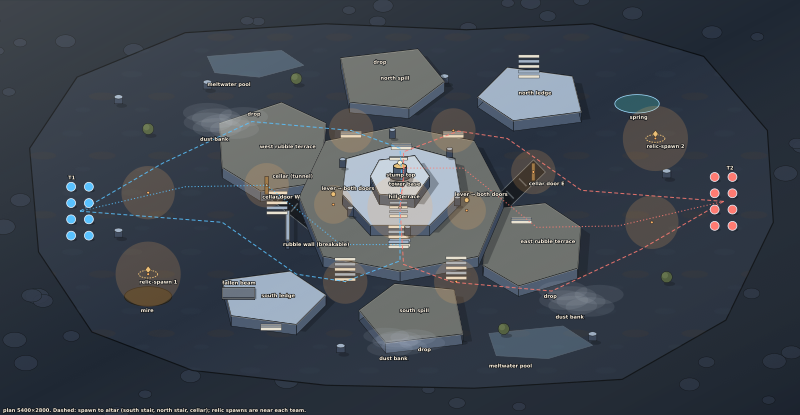
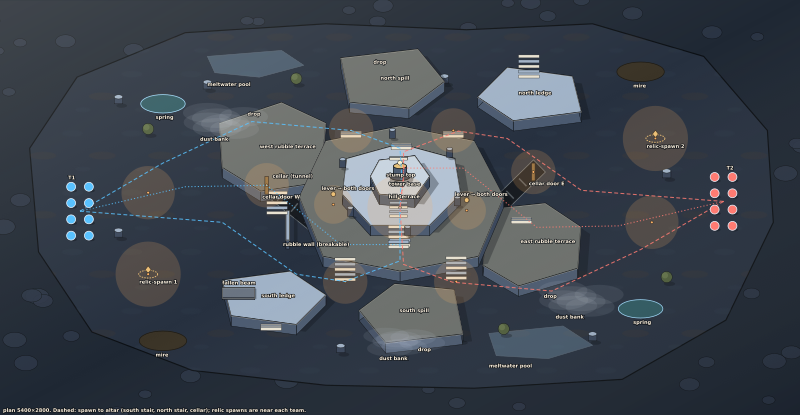
#3430: Broken Tower: same zones for both teams, away from the relic spawns

diff --git a/docs/art/3075-broken-tower.md b/docs/art/3075-broken-tower.md
@@ -38,8 +38,9 @@ tower on a hill: its stump a climbable ruin, rubble terraces, a cellar route) is
   Two brass **levers** on the hill terrace, (2250,1380) and (3150,1420), **each opens both doors**:
   either team can open the cellar, and a pulled lever opens it for both. No lift is used (bots read
   a lever lift as closed). A **breakable rubble wall** (x 1930, y 1420..1620) closes a lane at the
-  west terrace. Zones: `mire` (1000,2000) and `spring` (4300,700), off every route, ≥ 200 u from a
-  spawn. Water: two shallow **meltwater pools**, off every route. Atmosphere (existing, #3032):
+  west terrace. Zones: a `spring` and a `mire` for each team, the same on both sides (turned 180°):
+  spring (1100,700) and mire (1100,2300) west, the pair turned east; off every route, ≥ 300 u from
+  a relic spawn and ≥ 200 u from a spawn. Water: two shallow **meltwater pools**, off every route. Atmosphere (existing, #3032):
   three dust banks, under bodies, never over an altar, a stair or a lever. One `canopy` overhang
   (a fallen beam) off every route. Six broken columns ring the tower base.
 - **Light:** the **Day** row (visual-style §2), sun from the NW, 50°, `#fff1d6` 0.55. Torches
@@ -75,8 +76,7 @@ west and east rims are the two sides' high ground.
 altar. The altar, the stump top and every stair are reachable by both teams without passing the other's
 spawn.
 
-The sides differ on purpose: the east terrace is 6 % smaller than the west, the spring is
-north-east and the mire south-west, the beam sits on the south-west only.
+The sides differ on purpose: the east terrace is 6 % smaller than the west, the beam sits on the south-west only.
 
 ## Canyon lessons, on the plan
 
